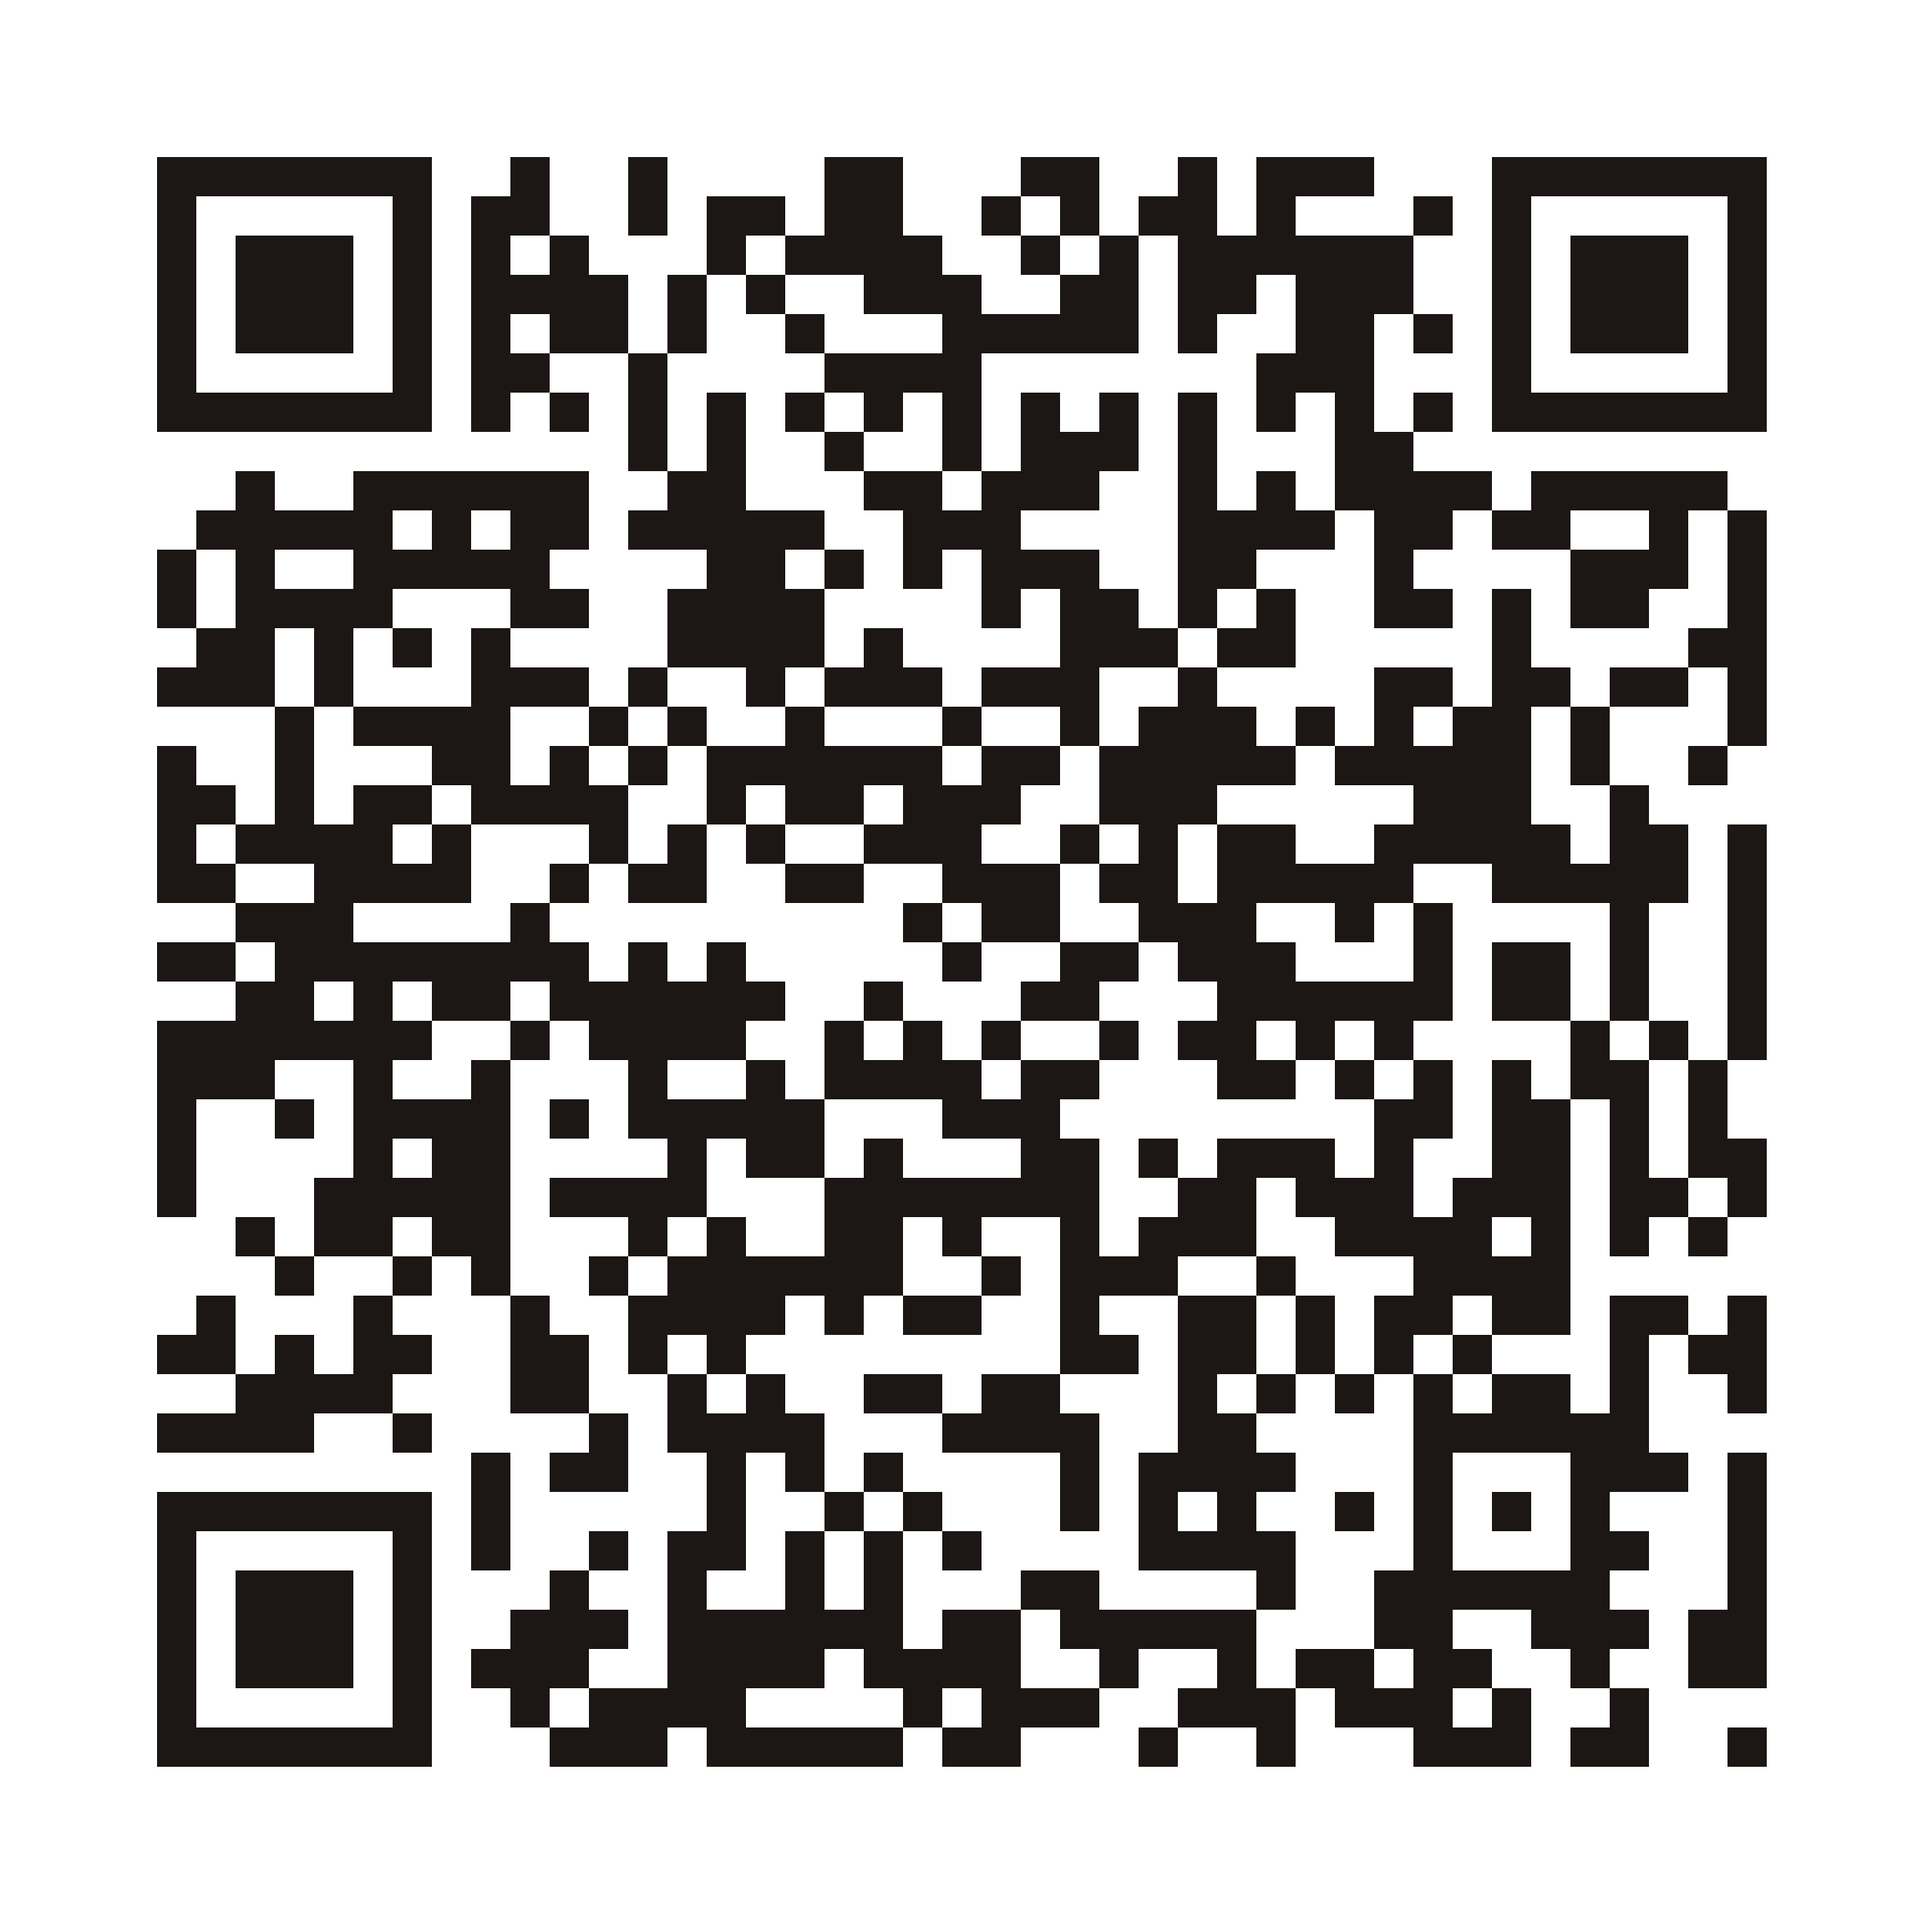
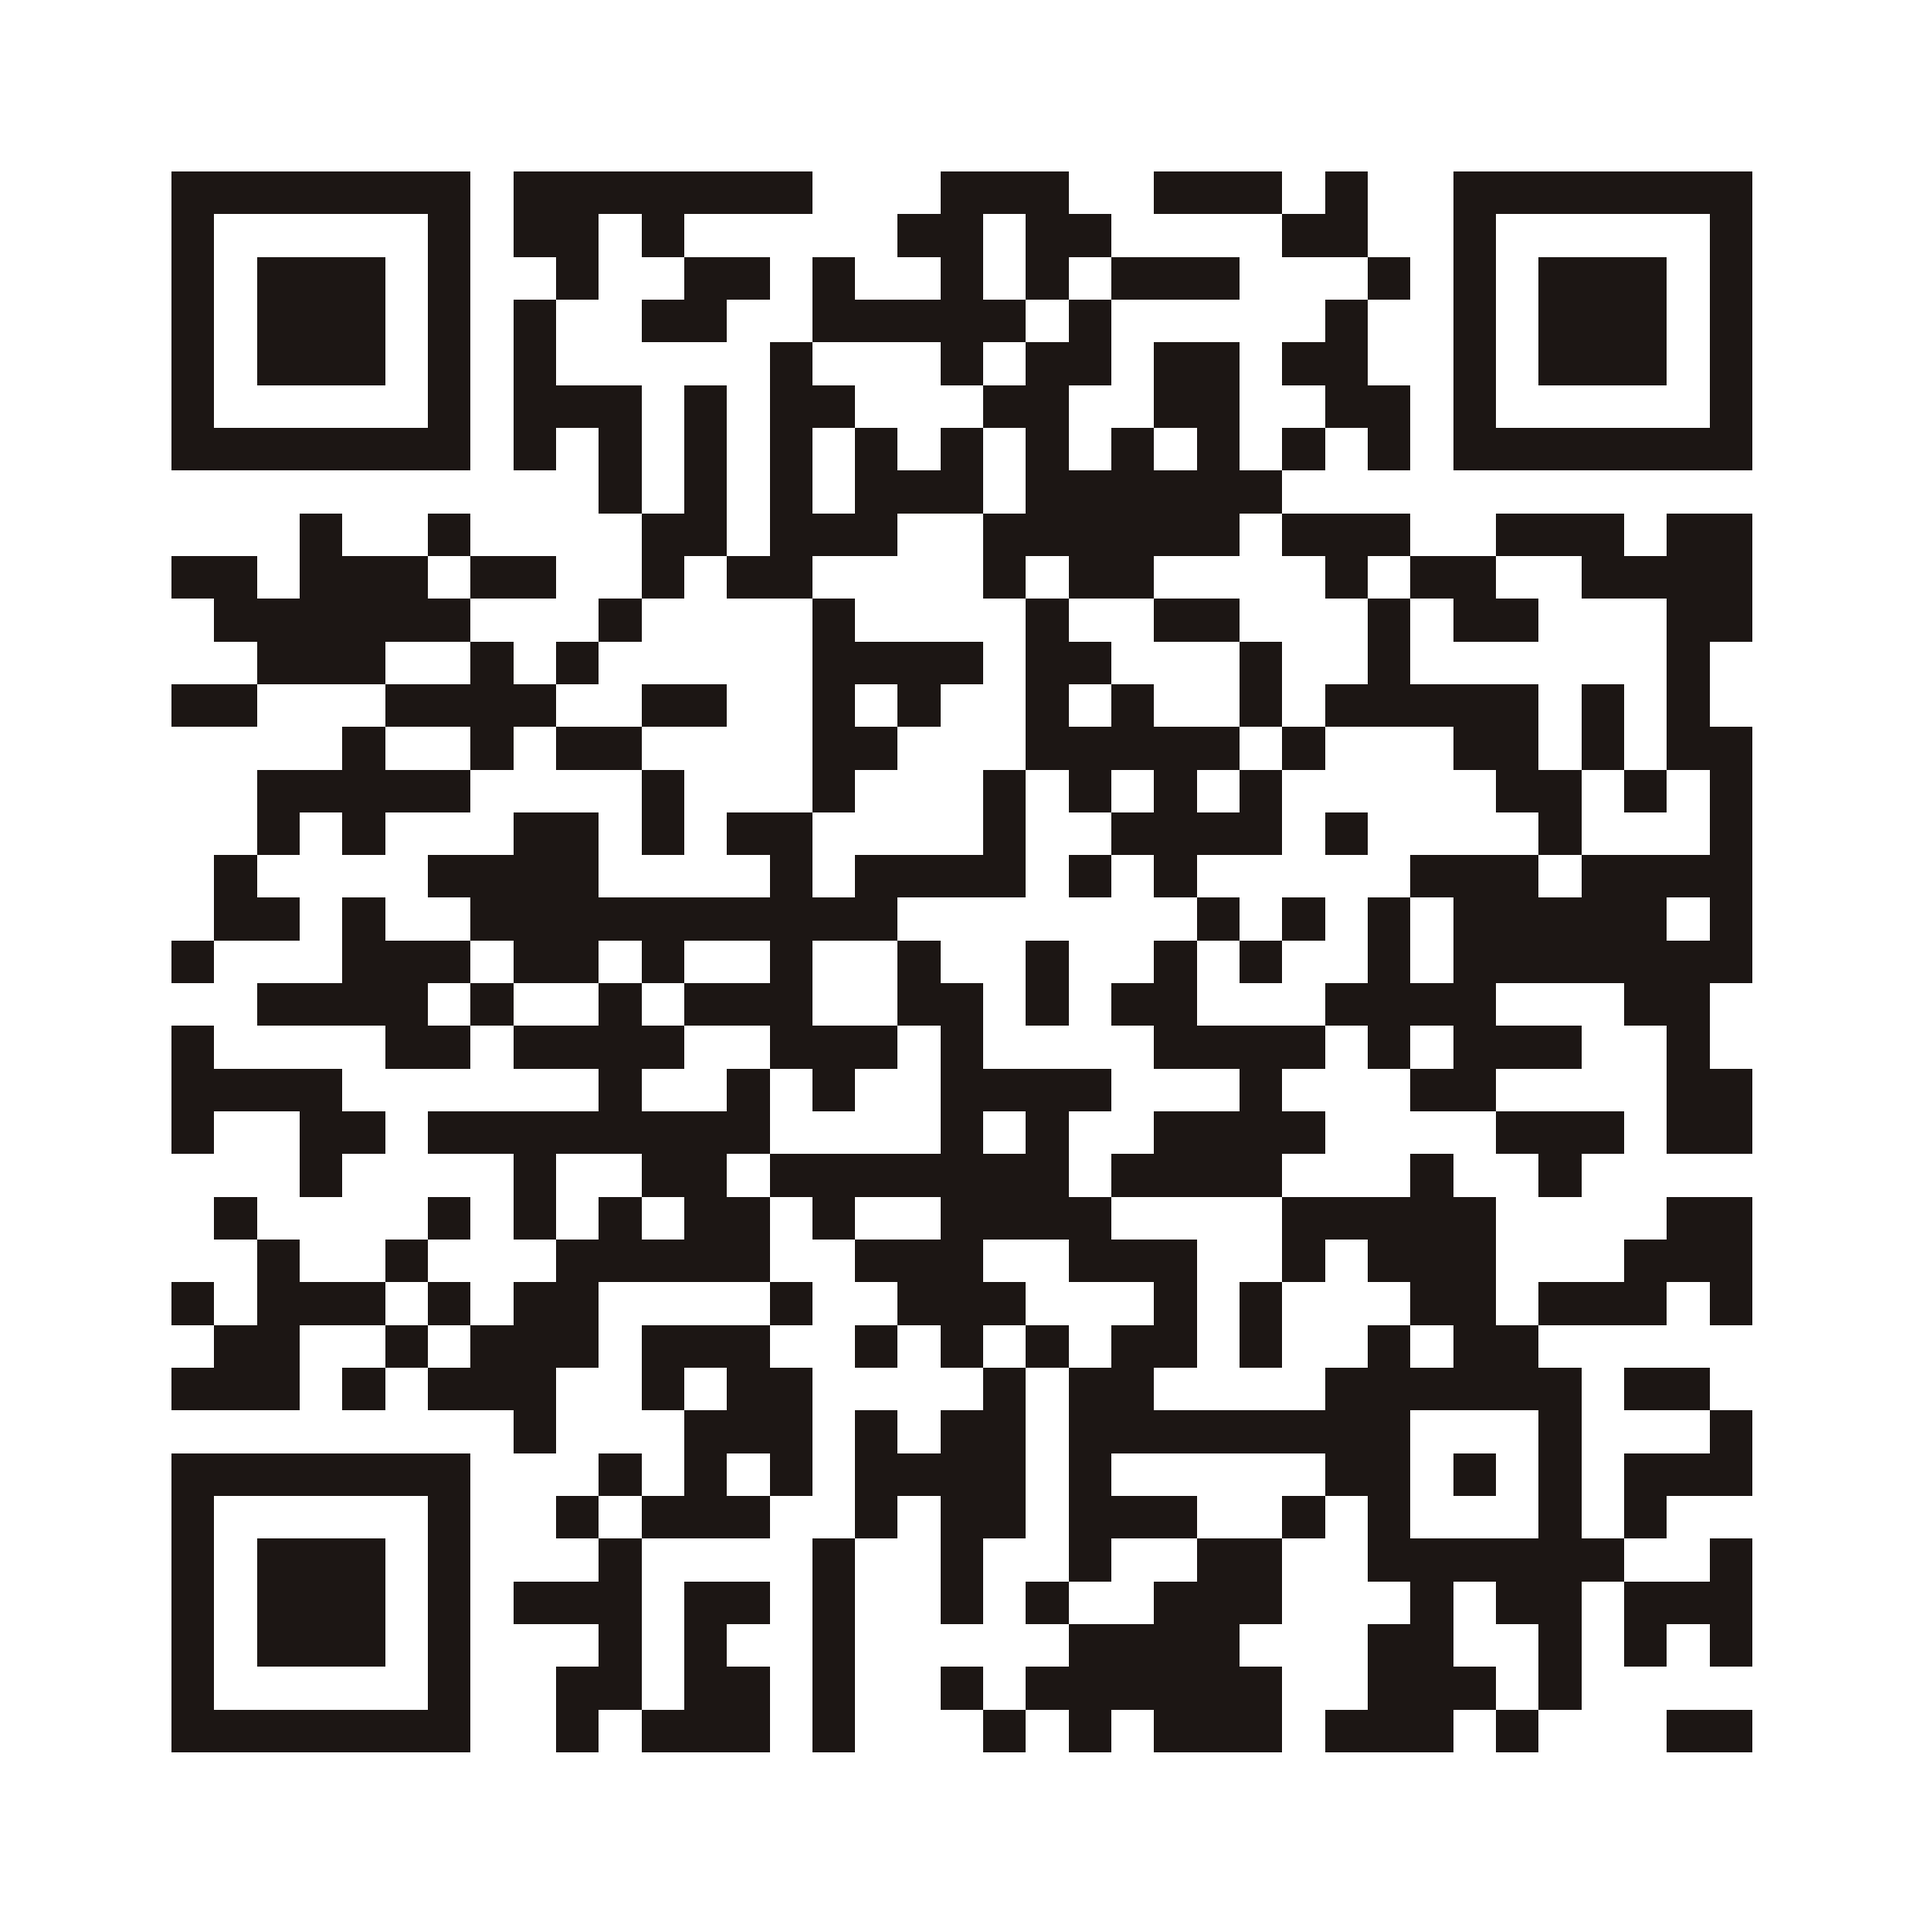
Point site and QR at the organiser's Pages root URL
Site now served from the regina-opare-memorial organisation so the
shared URL no longer exposes a personal GitHub account name.

diff --git a/index.html b/index.html
@@ -10,12 +10,12 @@
 
 <meta property="og:type" content="website">
 <meta property="og:site_name" content="In Loving Memory of Mrs. Regina Dartebea Opare">
-<meta property="og:url" content="https://g-akuffo.github.io/in-loving-memory-regina-opare/">
+<meta property="og:url" content="https://regina-opare-memorial.github.io/">
 <meta property="og:title" content="In Loving Memory of Mrs. Regina Dartebea Opare (1967 – 2026)">
 <meta property="og:description" content="Burial &amp; Memorial Service — Saturday, 7th November 2026. Tap to view the brochure.">
-<meta property="og:image" content="https://g-akuffo.github.io/in-loving-memory-regina-opare/pages/p01.jpg">
+<meta property="og:image" content="https://regina-opare-memorial.github.io/pages/p01.jpg">
 <meta name="twitter:card" content="summary_large_image">
-<link rel="canonical" href="https://g-akuffo.github.io/in-loving-memory-regina-opare/">
+<link rel="canonical" href="https://regina-opare-memorial.github.io/">
 
 <link rel="icon" href="assets/favicon.svg" type="image/svg+xml">
 <link rel="preload" as="image" href="pages/p01.jpg">
